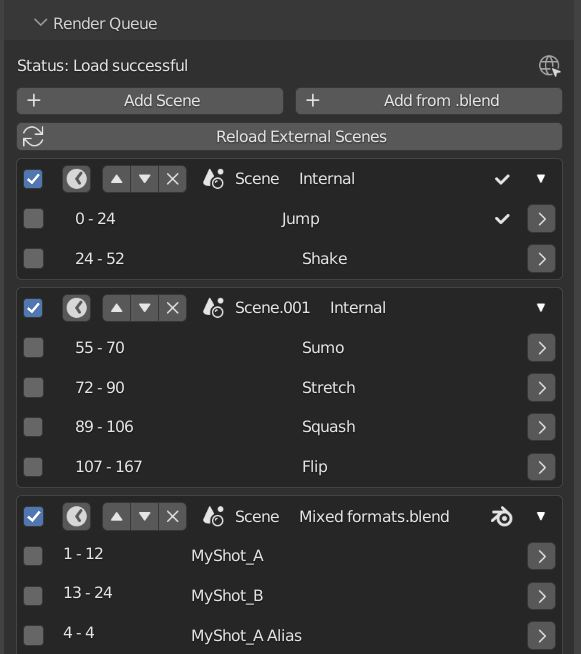
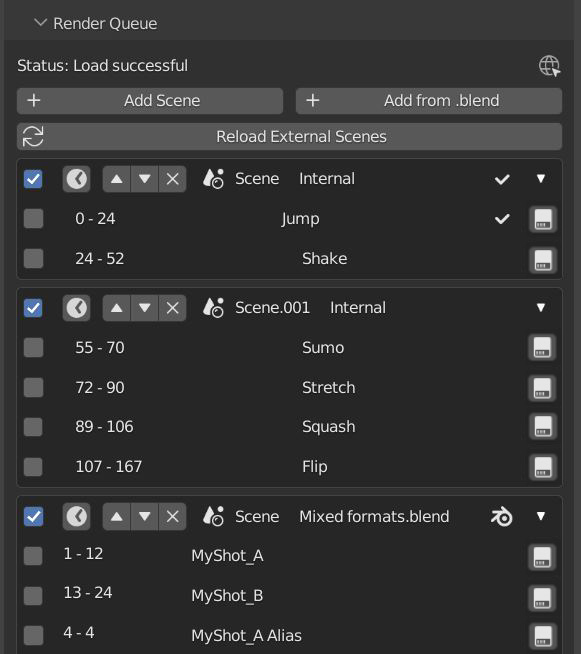
0.7.6 updates

Changed region(s): [[0.8985, 0.8257, 0.9604, 1.0], [0.8985, 0.5199, 0.9604, 0.7339], [0.8985, 0.3058, 0.9604, 0.4281]]

diff --git a/index.rst b/index.rst
@@ -325,14 +325,18 @@ Macro's can also be executed from the SM Tools panel.
 .. image:: ExecuteMacro.JPG
 
 
-
 Output
 ------
 
+.. image:: Output.JPG
+
+
 Shots can be rendered using the regular Render Animation or still operators (Ctrl+F12/F12). However only the active shot will be rendered. Batch render or output files per shot, use one of the listed batch rendering options.
+
 
 * **Root Folder** will be the starting directory for shots.
 * **Use Suffix** Add the shot's suffix to the shot's filepath.
+* **Make Subfolders**, When enabled, add a unique subfolder to the output path with the shot's name, separating it from other shots. Disabling this will lead to shots being rendered to the same folder which potentially could cause accidental overwrites when using generated output nodes.
 * **Render As Copy** , Save a Blend file when using SM render specifically for rendering. Large files make take more time however it will prevent inconsistencies if the file is changed.
 
 Render Queue
@@ -363,7 +367,10 @@ SM Batch Render
 
 SM Render is Shot Manger's local batch rendering module.It will perform a background render thread for each shot sequentially in the render queue. For single machine rendering. It is possible to render Shots from other scenes, as well as other Blend files. Render progress will be displayed in the render queue as well as 3d view overlay. TIP: If RAM is an issue, make an empty Scene as the master scene for queueing and rendering.
 
-To batch render simply use Ctrl+Shift+F12 or use the 'Render Queued Shots' Button. 
+To batch render, Shot Manager will attempt to assign the hotkey Ctrl+Shift+F12, howver somtimes this may need to be manually assigned. A batch render button can also be found in the Render menu.
+
+.. image:: Render_Button.JPG
+
 
 
 Deadline Integration (Windows)
@@ -402,7 +409,7 @@ This is configured in Deadline Monitor > Tools > Configure Plugins. You must ena
 .. image:: plugin_deadline.JPG
 
 Deadline Errors
-==============
+===============
 
 * **'Error encountered when loading the configured Client Certificate'** This is a certificate issue with your install of Deadline, please see: https://forums.thinkboxsoftware.com/t/basic-setup-issue/24229/9 When installing the Deadline repository it is simplest to leave 'use SSL' unticked, and set 'full read/write access' in the install wizard.
 
@@ -413,7 +420,9 @@ Deadline Errors
 B-Renderon! Integration
 =======================
 
-Launch B-Renderon with shots loaded as separate blend files. Requires B-renderon v2.2 or above. The executable path for B-renderon must first be entered in Blender Preferences -> add-ons -> Shot Manager settings   
+.. image:: BRenderon.JPG
+
+Launch B-Renderon with shots pre-loaded. Temporary job files are created in the temp folder. These files are used to access individual shots from the project render file. The render file is created in the same directory as the source .blend file with the suffix '_renderfile'. Requires B-renderon v2.2 or above. The executable path for B-renderon must first be entered in Blender Preferences -> add-ons -> Shot Manager settings   
 **Force Cycles Device** to ensure the correct CPU/GPU configuration is applied to renders, assuming the submission machine is or is identical to the render machine.
 
 Export Files
@@ -430,13 +439,24 @@ Batch export only uses the active scene's queued shots and does not support shot
 
 Choose output format and setting in the directory window. The settings panel appears on the left in Blender 2.80.
 
-FBX exporter does not use the FBX export/import addon but rather a modified export script.
+* **FBX** 
+
+The FBX Exporter is a modified exporter capable of embedding shots. This is suitable for linear timelines as traditionaly used by game animators and later split into sections in a game engine. 
 
 .. image:: embed_shots_a.JPG
 
 Embedded shots can store frame ranges and shot names as animation layers and extracted in other software,i.e. Unity.
 
 .. image:: embed_shots_b.JPG
+
+
+* **BAT** 
+
+.. image:: BAT.JPG
+
+
+.bat files are used by Windows to execute command-line rendering. Either export separate files, per shot or, a single batch file containing an execution list. Simply open the file to begin the render process. Be sure not to move the source .blend files as references to those files will be lost.
+
 
 
 
